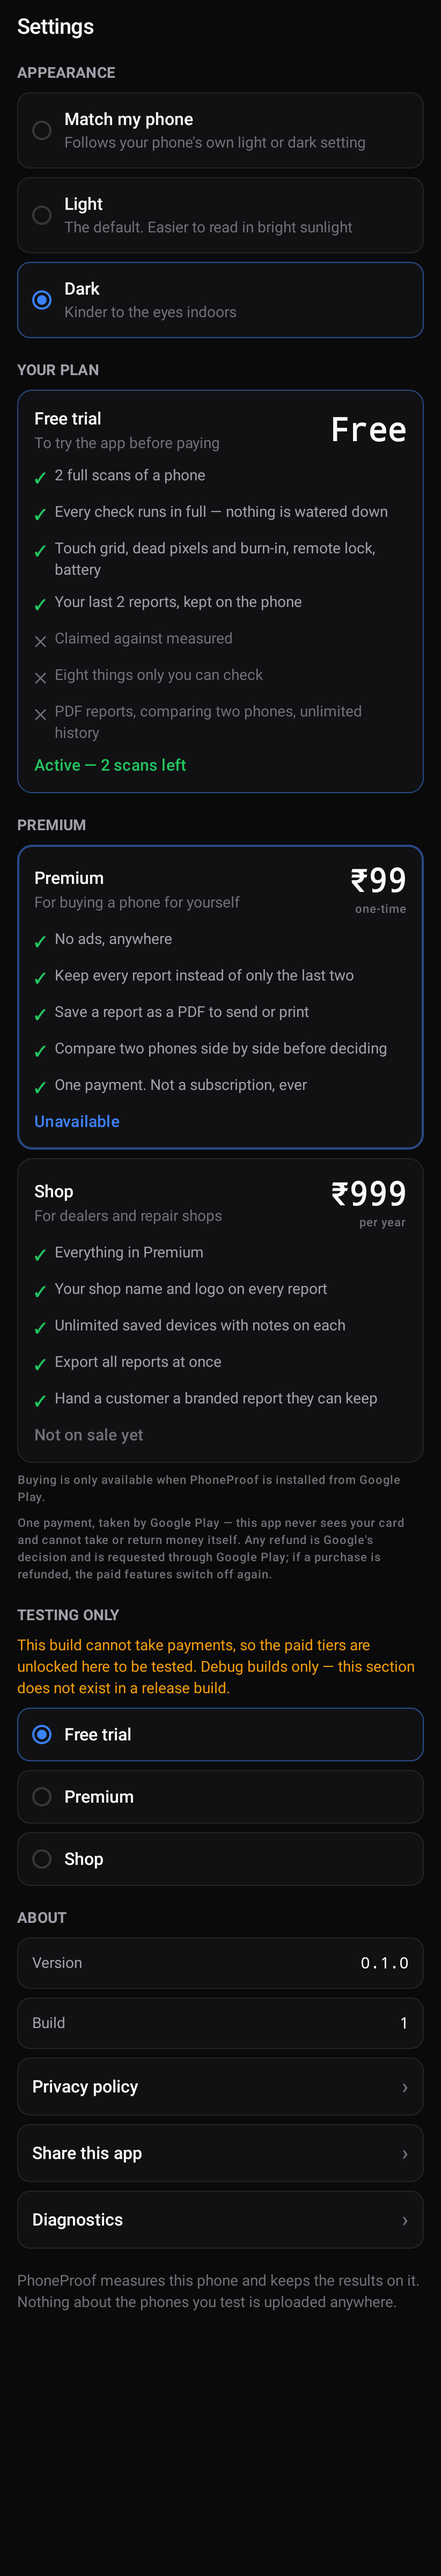
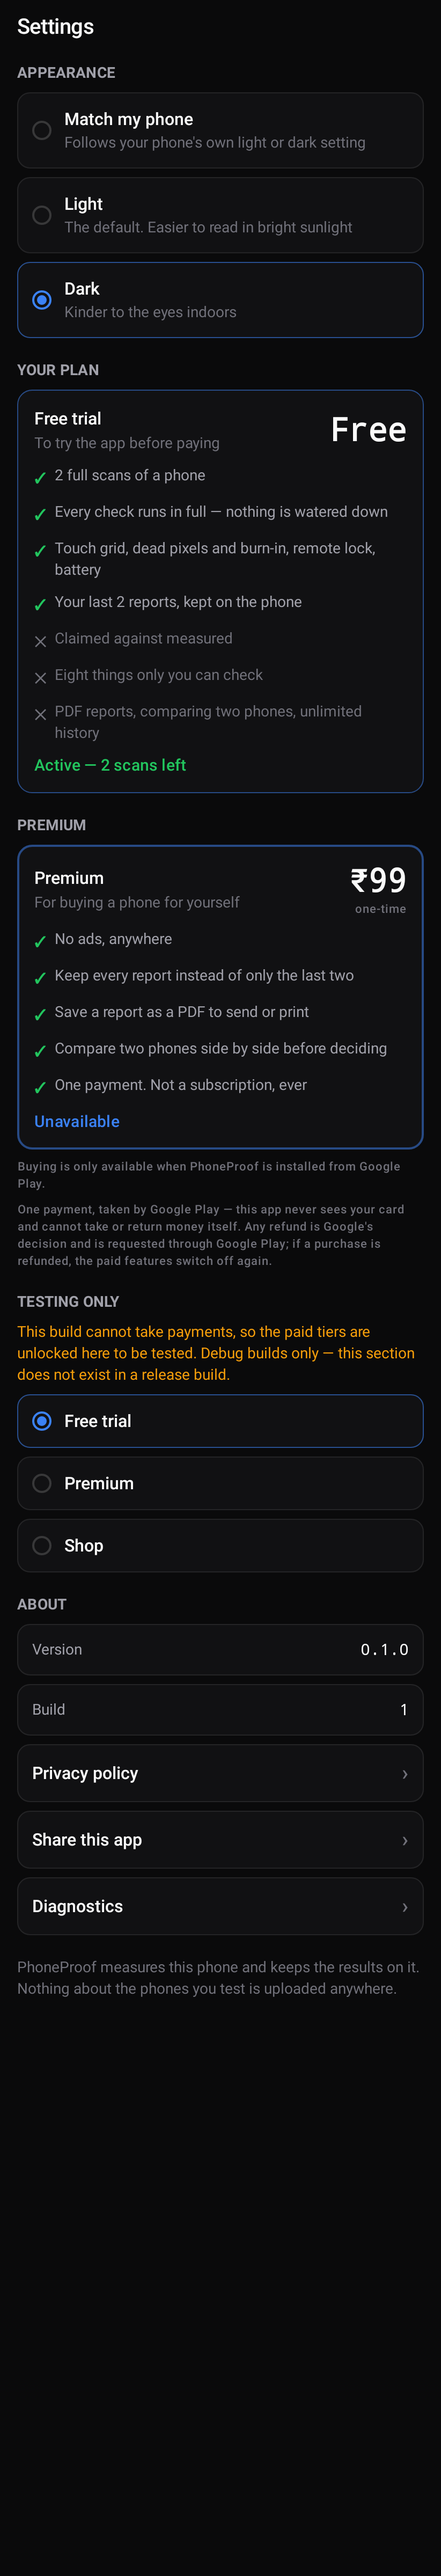
Stop the free-trial card promising every check, and re-render Settings
Reviewing the render for the Shop removal found a worse line two inches
above it. The free-trial card promised:

    Every check runs in full - nothing is watered down

That stopped being true the moment three measured checks were left out of
the trial, and it is the worst possible place for a stale claim: a sentence
on the payment screen that the app breaks two taps later. A limit a buyer
would have accepted becomes a small deception they discover on their own,
which is precisely the outcome the locked-check rules were written to
avoid.

The promise worth keeping is the other one - that nothing is ever degraded
to sell an upgrade, a measurement is either taken properly or not offered.
So the line now says that, and the three excluded checks are named.

Named from PaidChecks rather than typed in, so this card and the paywalls
behind those checks cannot disagree, and locking a fourth check without
mentioning it here now fails a test.

The list moved out of the composable into freeTrialLines() to make any of
that testable. It was unreachable before except through a screenshot, which
is how the claim went stale unnoticed - nothing crashed, nothing failed, and
the only witness was a PNG nobody read that closely.

Also: the version in these renders is now a named FIXTURE_VERSION with an
explanation. It is deliberately fake and deliberately not updated, so the
renders do not churn on every release - but reading a bare '0.1.0' in a
[…]

diff --git a/feature/settings/src/main/kotlin/com/phoneproof/feature/settings/SettingsScreen.kt b/feature/settings/src/main/kotlin/com/phoneproof/feature/settings/SettingsScreen.kt
@@ -46,6 +46,7 @@ import com.phoneproof.core.designsystem.theme.PhoneProofTheme
 import com.phoneproof.core.designsystem.theme.PhoneProofType
 import com.phoneproof.core.designsystem.theme.ThemeMode
 import com.phoneproof.core.preferences.Entitlement
+import com.phoneproof.core.preferences.PaidChecks
 import com.phoneproof.core.reports.ShopBranding
 
 /**
@@ -320,6 +321,44 @@ private fun ThemeRow(
     }
 }
 
+/**
+ * What the free trial does and does not include, in one list.
+ *
+ * Included and excluded together on purpose. Splitting them into two sections lets a reader skim only the
+ * good half, and the limit is the whole point of this card.
+ *
+ * ## The line that had to go
+ *
+ * This used to promise **"Every check runs in full — nothing is watered down"**, and that stopped being true
+ * the moment three measured checks were left out of the trial. It was the worst possible place for a stale
+ * claim: a sentence on the payment screen that the app then breaks two taps later, which turns a limit a
+ * buyer would have accepted into a small deception they discover on their own.
+ *
+ * The promise worth keeping is the *other* one — that nothing is ever degraded to sell an upgrade. A
+ * measurement is either taken properly or not offered. So that is what it says now, and the three checks the
+ * trial leaves out are named as excluded.
+ *
+ * Named from [PaidChecks] rather than typed here, so this card and the paywalls behind those checks cannot
+ * disagree. Extracted from the composable so it can be tested at all: a claim on a payment screen is worth a
+ * test, and a `listOf` buried inside a `@Composable` is only reachable through a screenshot.
+ */
+internal fun freeTrialLines(): List<Pair<Boolean, String>> {
+    val excludedChecks = PaidChecks.routes
+        .mapNotNull { PaidChecks.copyFor(it)?.title }
+        .joinToString(", ")
+
+    return listOf(
+        true to "${Entitlement.FREE_SCAN_LIMIT} full scans of a phone",
+        true to "Full results — never a watered-down number to sell you an upgrade",
+        true to "Touch grid, dead pixels and burn-in, remote lock, battery",
+        true to "Your last 2 reports, kept on the phone",
+        false to excludedChecks,
+        false to "Claimed against measured",
+        false to MANUAL_CHECKS_TITLE,
+        false to "PDF reports, comparing two phones, unlimited history",
+    )
+}
+
 @Composable
 private fun PlanCard(
     plan: PremiumPlan,
@@ -523,17 +562,7 @@ private fun FreeTrialCard(active: Boolean, scansLeft: Int?) {
             )
         }
 
-        // Included and not included, in one list. Splitting them into two sections lets a reader
-        // skim only the good half, and the limit is the whole point of this card.
-        listOf(
-            true to "${Entitlement.FREE_SCAN_LIMIT} full scans of a phone",
-            true to "Every check runs in full — nothing is watered down",
-            true to "Touch grid, dead pixels and burn-in, remote lock, battery",
-            true to "Your last 2 reports, kept on the phone",
-            false to "Claimed against measured",
-            false to MANUAL_CHECKS_TITLE,
-            false to "PDF reports, comparing two phones, unlimited history",
-        ).forEach { (included, text) ->
+        freeTrialLines().forEach { (included, text) ->
             Row(horizontalArrangement = Arrangement.spacedBy(8.dp)) {
                 Text(
                     text = if (included) "✓" else "✕",

diff --git a/feature/settings/src/test/kotlin/com/phoneproof/feature/settings/FreeTrialLinesTest.kt b/feature/settings/src/test/kotlin/com/phoneproof/feature/settings/FreeTrialLinesTest.kt
@@ -1,0 +1,75 @@
+package com.phoneproof.feature.settings
+
+import com.google.common.truth.Truth.assertThat
+import com.phoneproof.core.preferences.Entitlement
+import com.phoneproof.core.preferences.PaidChecks
+import org.junit.Test
+
+/**
+ * What the free-trial card claims.
+ *
+ * Every sentence here appears on the screen that asks for money, which makes a stale one worse than a bug: a
+ * limit a buyer would have accepted becomes a deception they discover for themselves two taps later.
+ *
+ * This card promised "Every check runs in full — nothing is watered down" for some time after three measured
+ * checks had been removed from the trial. Nothing failed, nothing crashed, and no test could have noticed,
+ * because the claim lived in a `listOf` inside a composable and was only ever seen in a screenshot.
+ */
+class FreeTrialLinesTest {
+
+    private val lines = freeTrialLines()
+
+    private val included = lines.filter { it.first }.map { it.second }
+    private val excluded = lines.filterNot { it.first }.map { it.second }
+
+    @Test
+    fun the_card_does_not_claim_every_check_is_included() {
+        // The exact stale promise, and any close relative of it.
+        val text = included.joinToString(" ").lowercase()
+
+        assertThat(text).doesNotContain("every check")
+        assertThat(text).doesNotContain("all checks")
+    }
+
+    @Test
+    fun every_check_the_trial_leaves_out_is_named_as_excluded() {
+        // Read from PaidChecks, so locking a fourth check without mentioning it here fails rather than
+        // quietly leaving the payment screen overpromising.
+        val excludedText = excluded.joinToString(" ")
+
+        PaidChecks.routes.forEach { route ->
+            val title = PaidChecks.copyFor(route)!!.title
+            assertThat(excludedText).contains(title)
+        }
+    }
+
+    @Test
+    fun nothing_is_both_offered_and_withheld() {
+        // A name appearing on both sides of the list would be worse than either alone.
+        val includedText = included.joinToString(" ")
+
+        PaidChecks.routes.forEach { route ->
+            assertThat(includedText).doesNotContain(PaidChecks.copyFor(route)!!.title)
+        }
+    }
+
+    @Test
+    fun the_scan_allowance_comes_from_the_entitlement_rather_than_a_typed_number() {
+        // A hardcoded "2" here would survive changing the allowance and then lie about it.
+        assertThat(included.any { it.contains(Entitlement.FREE_SCAN_LIMIT.toString()) }).isTrue()
+    }
+
+    @Test
+    fun the_promise_that_is_kept_is_still_made() {
+        // Removing the false claim must not remove the true one with it. The app never degrades a
+        // measurement to sell an upgrade, and that is worth saying out loud on this card.
+        assertThat(included.joinToString(" ").lowercase()).contains("watered-down")
+    }
+
+    @Test
+    fun both_halves_of_the_list_are_populated() {
+        // Guards the test itself: an empty half would make every assertion above pass for the wrong reason.
+        assertThat(included).isNotEmpty()
+        assertThat(excluded).isNotEmpty()
+    }
+}

diff --git a/feature/settings/src/test/kotlin/com/phoneproof/feature/settings/SettingsScreenshotTest.kt b/feature/settings/src/test/kotlin/com/phoneproof/feature/settings/SettingsScreenshotTest.kt
@@ -26,13 +26,22 @@ class SettingsScreenshotTest {
     private val outputDir: String =
         System.getProperty("phoneproof.screenshotDir") ?: "build/screenshots"
 
+    /**
+     * A made-up version, on purpose, and not updated when the real one changes.
+     *
+     * These renders would otherwise churn on every release for no review value. Kept obviously fake so that
+     * a reviewer reading "0.1.0" here does not conclude the version wiring has regressed - the real version
+     * comes from version.properties and is asserted against BuildConfig by AppVersionTest.
+     */
+    private val FIXTURE_VERSION = "0.1.0"
+
     private fun render(name: String, themeMode: ThemeMode) {
         composeRule.setContent {
             PhoneProofTheme(themeMode = themeMode) {
                 SettingsScreen(
                     state = SettingsUiState(
                         themeMode = themeMode,
-                        versionName = "0.1.0",
+                        versionName = FIXTURE_VERSION,
                         versionCode = 1L,
                         billingAvailable = false,
                         // Set, because a free-trial user always has a count — the route computes it
@@ -89,7 +98,7 @@ class SettingsScreenshotTest {
                 SettingsScreen(
                     state = SettingsUiState(
                         themeMode = ThemeMode.LIGHT,
-                        versionName = "0.1.0",
+                        versionName = FIXTURE_VERSION,
                         versionCode = 1,
                         billingAvailable = true,
                         entitlement = Entitlement.FREE,
@@ -127,7 +136,7 @@ class SettingsScreenshotTest {
                 SettingsScreen(
                     state = SettingsUiState(
                         themeMode = ThemeMode.DARK,
-                        versionName = "0.1.0",
+                        versionName = FIXTURE_VERSION,
                         versionCode = 1,
                         billingAvailable = false,
                         entitlement = Entitlement.SHOP,
